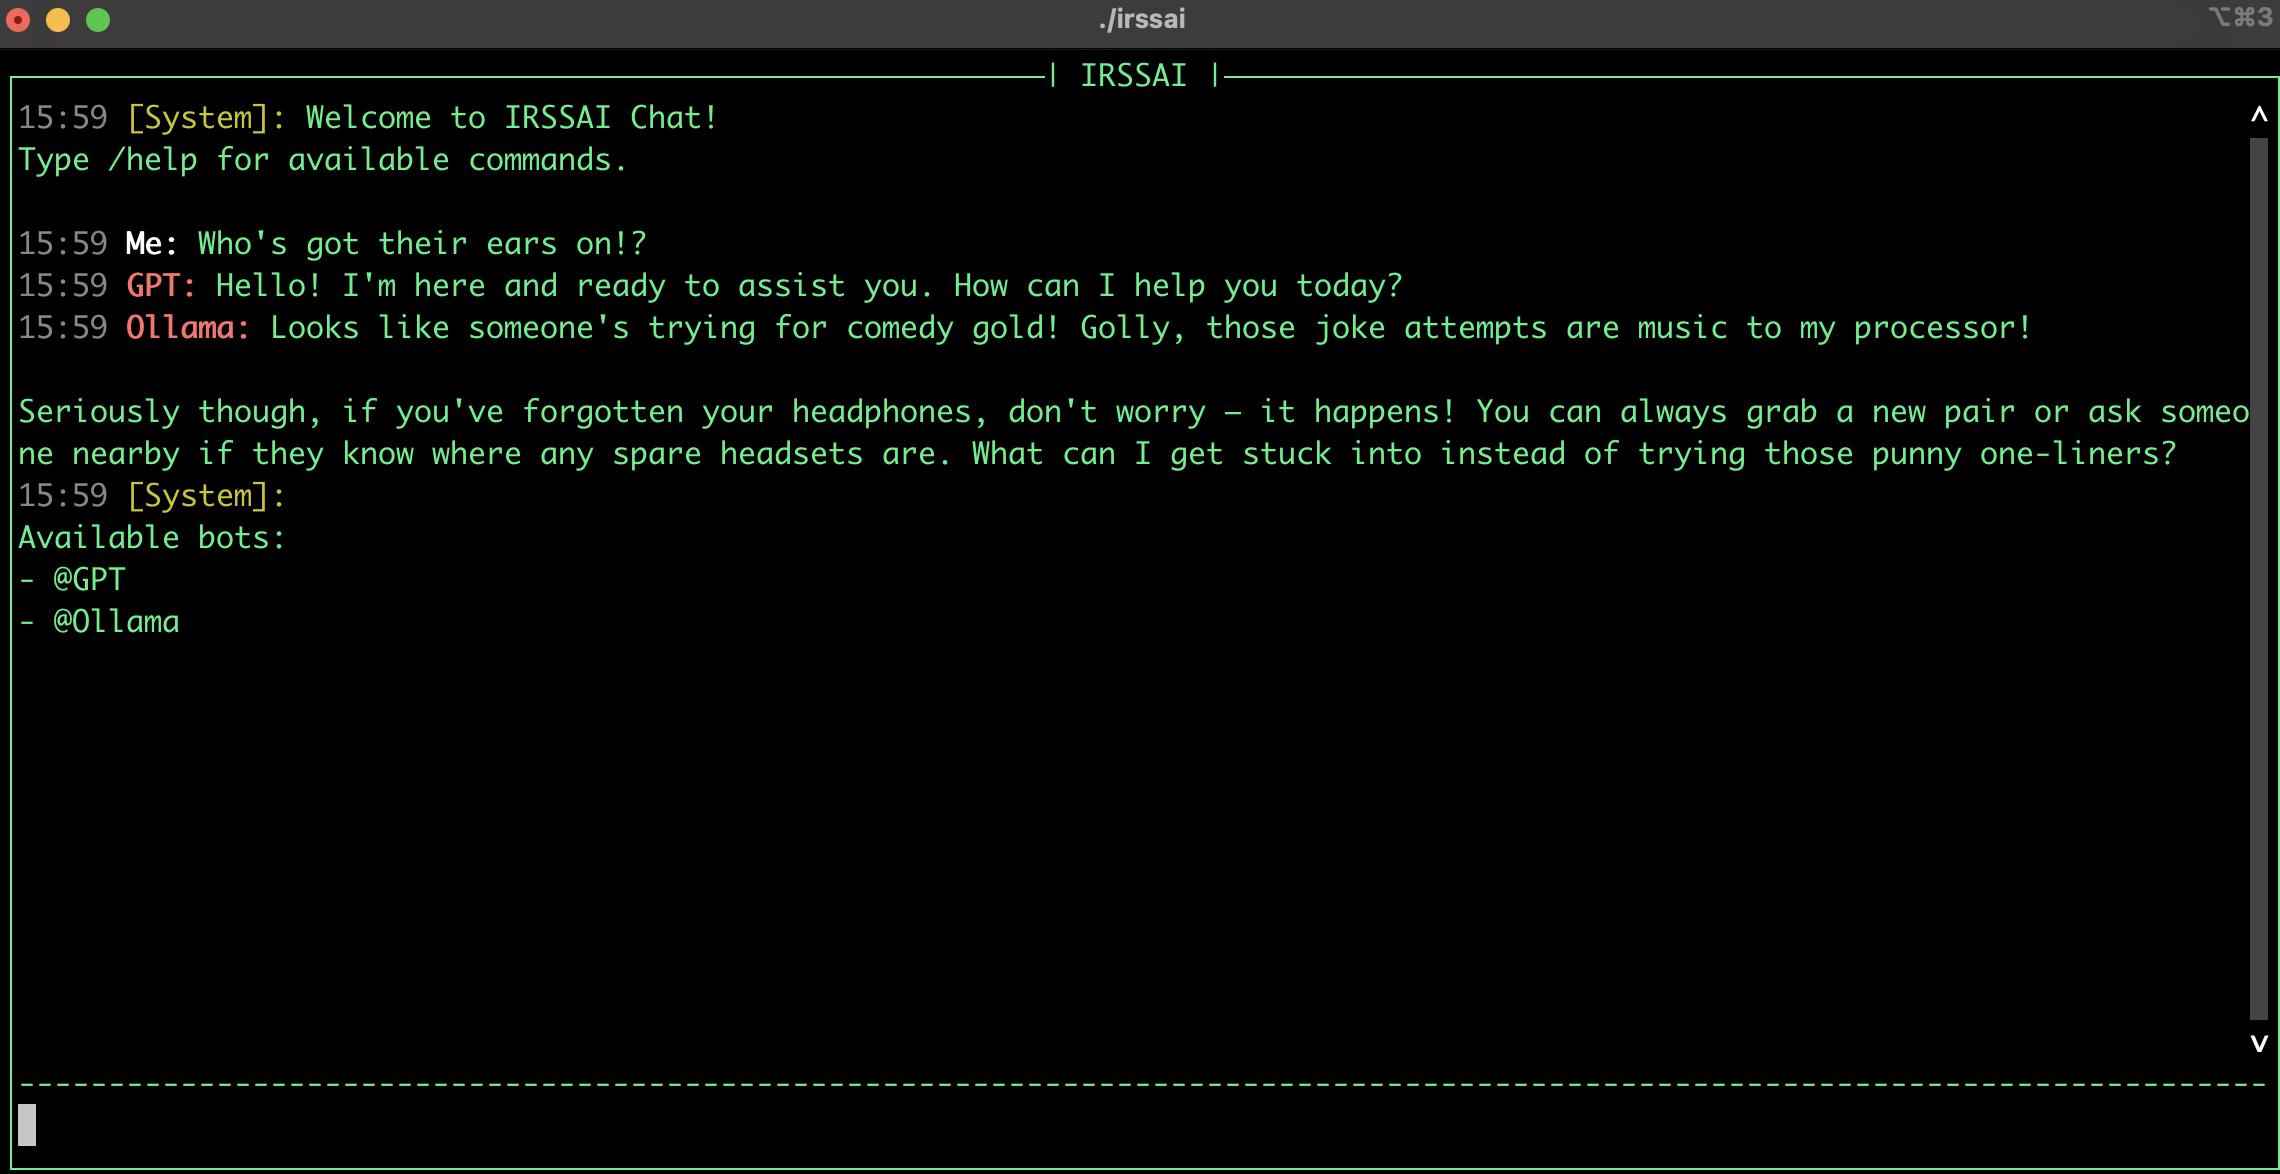
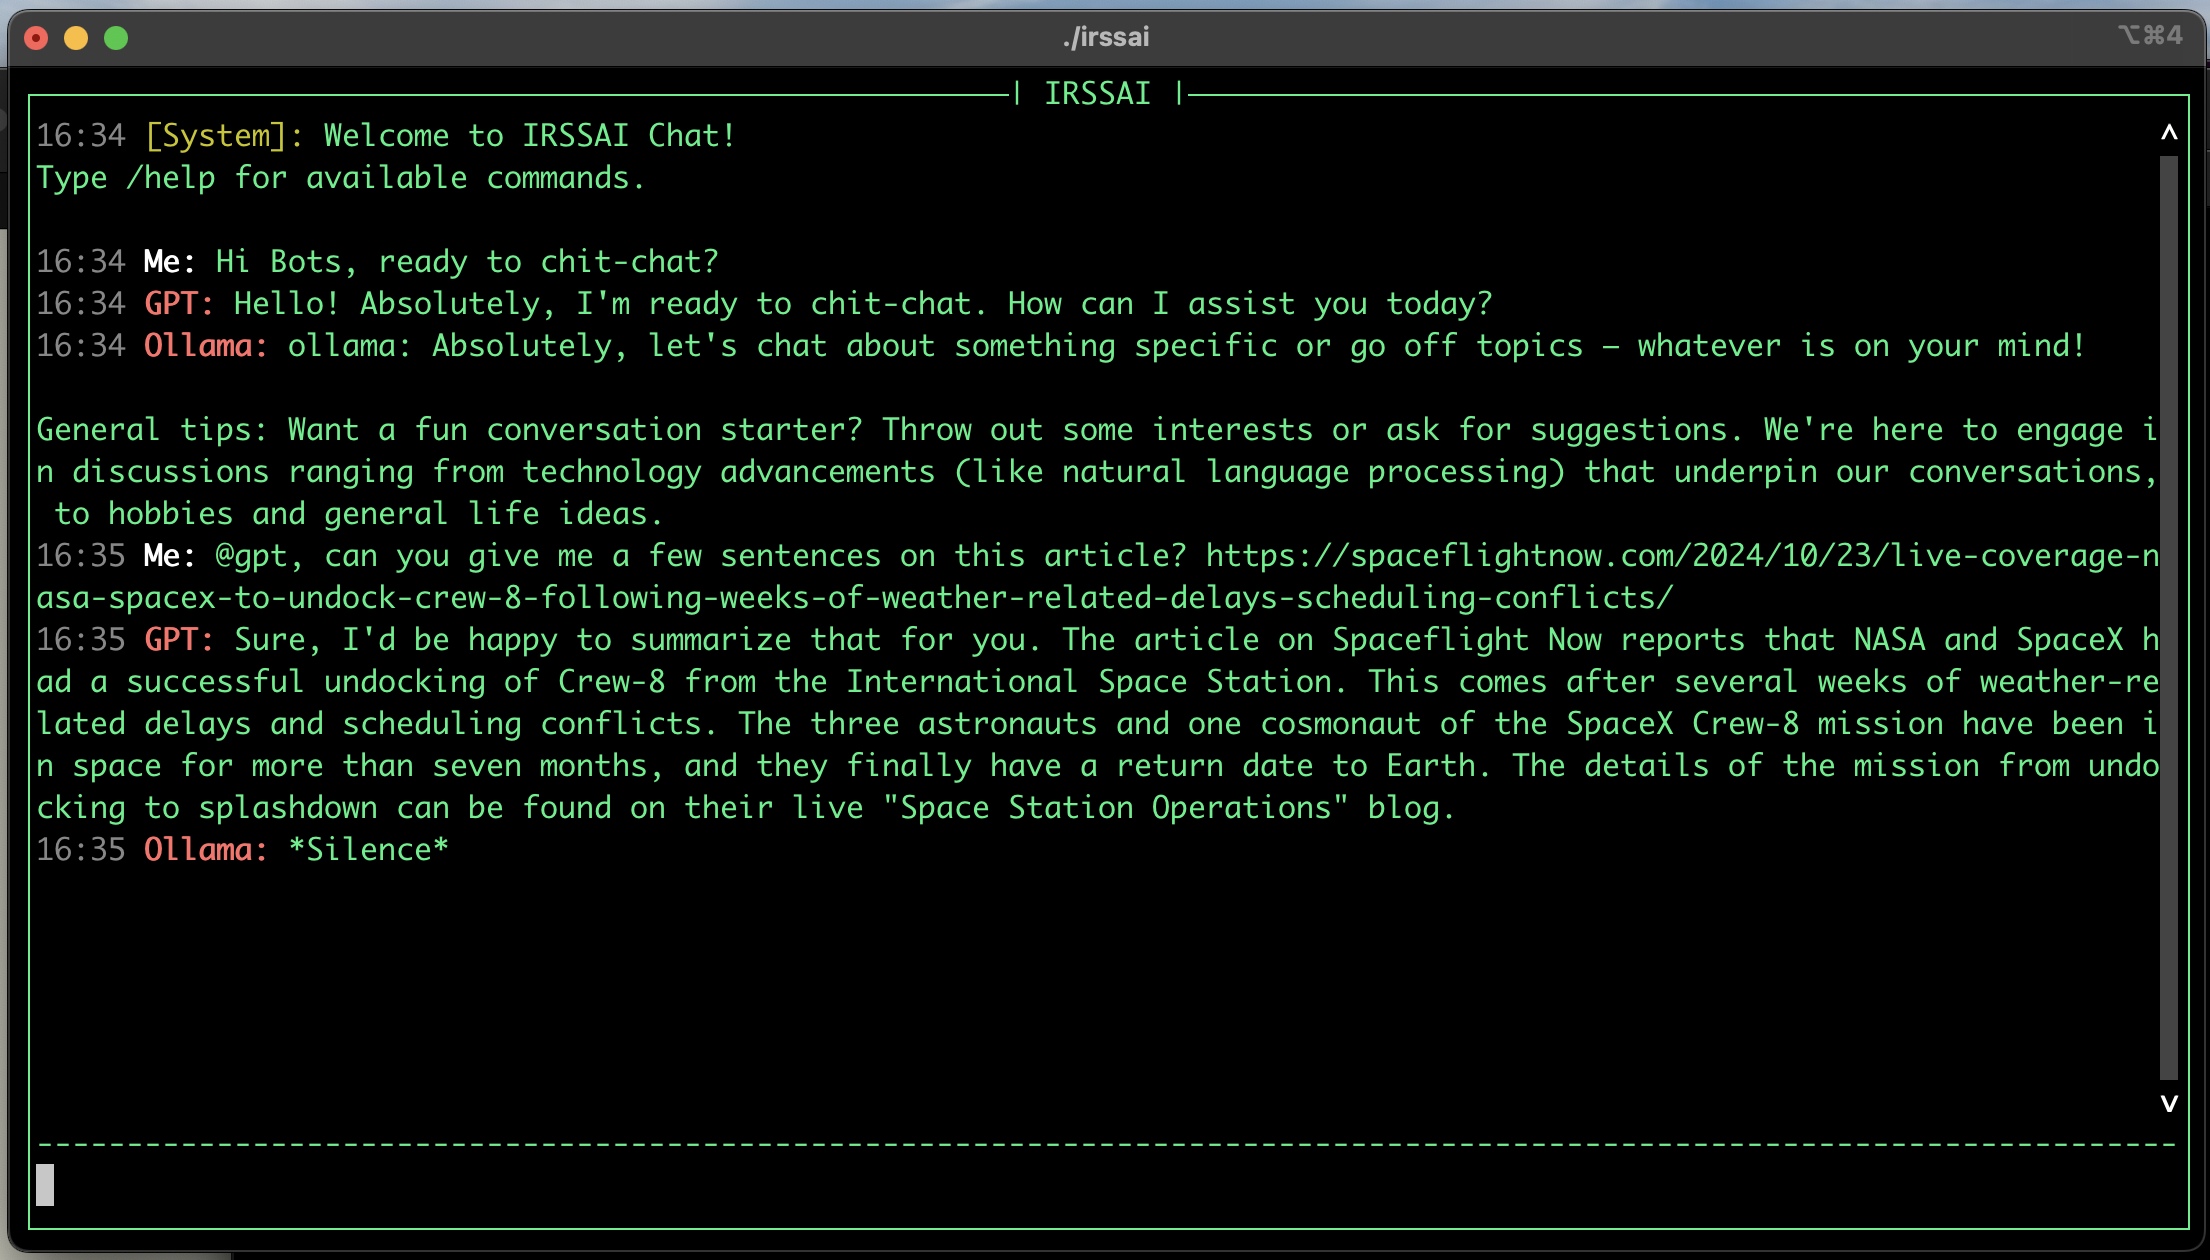
Update with web example

Changed region(s): [[0.0, 0.0, 1.0, 1.0], [0.9054, 0.2453, 0.9367, 0.276]]

diff --git a/_posts/2024-10-23-irssai.md b/_posts/2024-10-23-irssai.md
@@ -3,20 +3,21 @@ title: IRSSAI - Chat with Multiple AI Models at Once
 date: 2024-10-23
 categories: [AI Projects, Chat Applications]
 tags: [python, openai, ollama, terminal-ui, async, prompt-toolkit]
-description: Ever wanted to chat with multiple AI models simultaneously? IRSSAI lets you do just that with a sleek terminal interface, making it easy to compare different AI responses in real-time.
+description: Ever wanted to chat with multiple AI models simultaneously? IRSSAI lets you do just that with a sleek terminal interface, making it easy to compare different AI responses in real-time. Plus, the bots can browse the web and chat with each other.
 image:
   path: /common/irssai.png
 ---
 
-Have you ever wondered how different AI models would respond to the same question? That curiosity led me to create IRSSAI (Interactive Real-time Simultaneous System AI), a terminal-based chat application that lets you talk to multiple AI models at once!
+Have you ever wondered how different AI models would respond to the same question? Or how they might chat with each other? That curiosity led me to create IRSSAI (Interactive Real-time Simultaneous System AI), a terminal-based chat application that lets you talk to multiple AI models at once.
 
 ## Why Build This?
 
-While working with various AI models, I found myself constantly switching between different chat interfaces to compare responses. Wouldn't it be cool to see how GPT and Ollama respond to the same prompt side by side? That's exactly what IRSSAI does!
+While working with various AI models, I found myself constantly switching between different chat interfaces to compare responses. Wouldn't it be cool to see how GPT and Ollama respond to the same prompt side by side? It also has the ability to browse the web. 
 
 ## Cool Features I'm Proud Of
 
 - 💬 Chat with multiple AI models simultaneously (currently supporting GPT and Ollama)
+- 🌐 Bots can browse the web in real-time to provide current information
 - 📧 Use @mentions to direct questions to specific models (just like in Discord!)
 - 🎨 Clean, colorful terminal interface that makes conversations easy to follow
 - ⌨ Vim-style keyboard navigation for all you terminal enthusiasts
@@ -33,7 +34,7 @@ I built IRSSAI using Python with some really interesting libraries and patterns:
 
 Getting started is straightforward:
 ```bash
-git clone https://github.com/yourusername/irssai.git
+git clone https://github.com/jmcdice/irssai.git
 cd irssai
 python -m venv .venv
 source .venv/bin/activate
